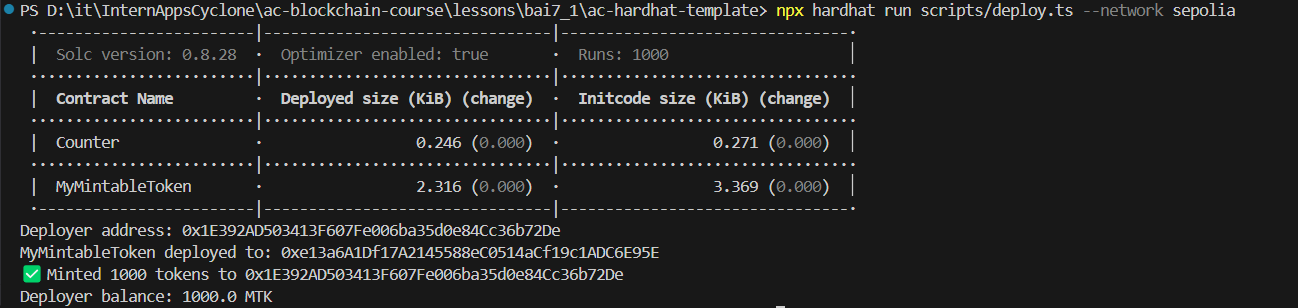
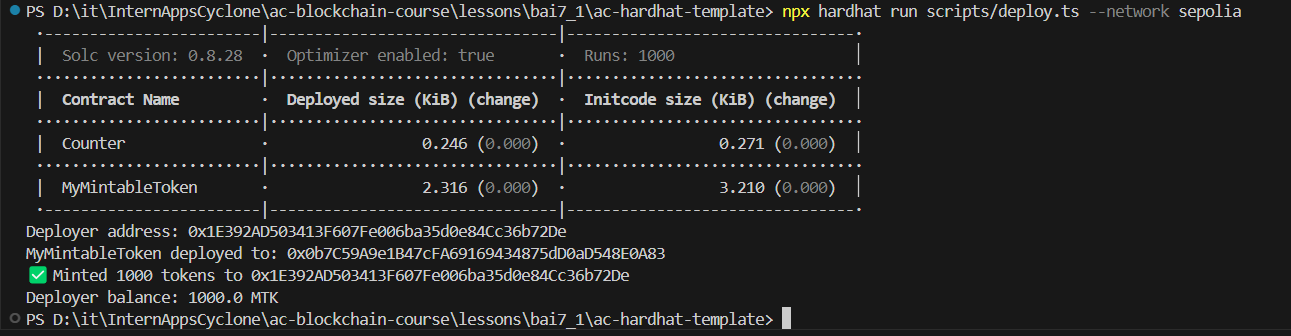
update contract

Changed region(s): [[0.0, 0.1461, 0.6816, 0.6429], [0.0, 0.6721, 0.6197, 1.0], [0.0, 0.0, 0.9605, 0.1169]]

diff --git a/lessons/bai7_2/solution.md b/lessons/bai7_2/solution.md
@@ -19,35 +19,26 @@ yarn add --dev @nomicfoundation/hardhat-verify
 
 ### 3. **Triển khai lên Sepolia**
 - Triển khai contract `MyMintableToken` lên testnet Sepolia 
-- Script `deploy/1-deploy.ts` triển khai contract và in ra địa chỉ của contract.
+- Script `scripts/deploy.ts` triển khai contract và in ra địa chỉ của contract.
 
   ![Triển khai lên Sepolia](image/deploy.png)
-  *Hình : Chạy file deploy/1-deploy.ts*
+  *Hình : Chạy file scripts/deploy.ts*
 
 
 
 ### 4. **Verify contract**
-- Cách 1:  Tự động ( do deploy bằng Hardhat Deploy)
   
 ```bash
-npx hardhat etherscan-verify --network sepolia
+npx hardhat verify --network sepolia 0x3A31DF9aF3C56B84C45bAfD4d5d8479dBcE32362
 ```
-  ![verify_1](image/verify_1.png)
-  *Hình : Verify tự động lấy contract address và constructor arguments.*
-
-- Cách 2: Verify thủ công nếu cần truyền constructor arguments
-  
-```bash
-npx hardhat verify --network sepolia 0xE637581f6A12B2F5b905D90f89B9f23567909151 "MyToken" "MTK" "0x1E392AD503413F607Fe006ba35d0e84Cc36b72De"
-```
-  ![verify_1](image/verify_2.png)
-  *Hình : Verify điền thủ công về contract address và constructor args.*
+  ![verify_1](image/verify.png)
+  *Hình : Verify*
 
 ## Nộp kết quả
-- Địa chỉ contract: 0xE637581f6A12B2F5b905D90f89B9f23567909151
-- Link verify trên Etherscan: https://sepolia.etherscan.io/address/0xE637581f6A12B2F5b905D90f89B9f23567909151#code
+- Địa chỉ contract: 0x3A31DF9aF3C56B84C45bAfD4d5d8479dBcE32362
+- Link verify trên Etherscan: https://sepolia.etherscan.io/address/0x3A31DF9aF3C56B84C45bAfD4d5d8479dBcE32362#code
 - Screenshot verify thành công:
   
-  ![verify_1](image/verify_1.png)
+  ![verify_1](image/verify.png)
 
 

diff --git a/lessons/bai7_1/solution.md b/lessons/bai7_1/solution.md
@@ -12,12 +12,9 @@ import "@openzeppelin/contracts/token/ERC20/ERC20.sol";
 import "@openzeppelin/contracts/access/Ownable.sol";
 
 contract MyMintableToken is ERC20, Ownable {
-    constructor(string memory name, string memory symbol, address initialOwner)
-    ERC20(name, symbol)
-    Ownable(initialOwner){}
+    constructor() ERC20("MyMintableToken", "MMT") Ownable(msg.sender) {}
 
-
-    function mint(address to, uint256 amount) public onlyOwner {
+    function mint(address to, uint amount) public onlyOwner {
         _mint(to, amount);
     }
 }
@@ -44,7 +41,7 @@ contract MyMintableToken is ERC20, Ownable {
 
 - Xem contract trên Etherscan thông qua address: 
 ```bash
- 0xAC7DB49b5a03e5755e75f22c8928244394b10744
+0x0b7C59A9e1B47cFA69169434875dD0aD548E0A83
 ```
   ![Kiểm tra trên Etherscan](image/contract.png)
   *Hình 6: Smart contract trên Etherscan*
